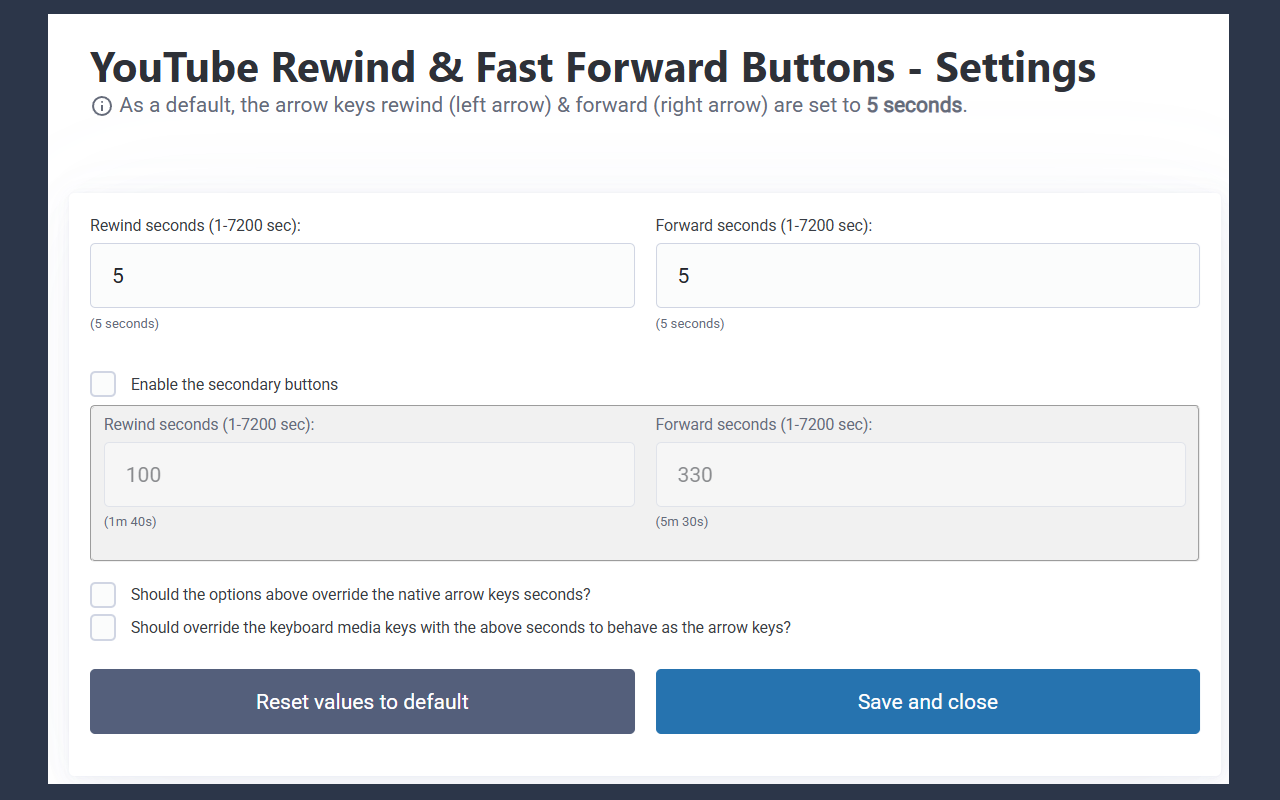
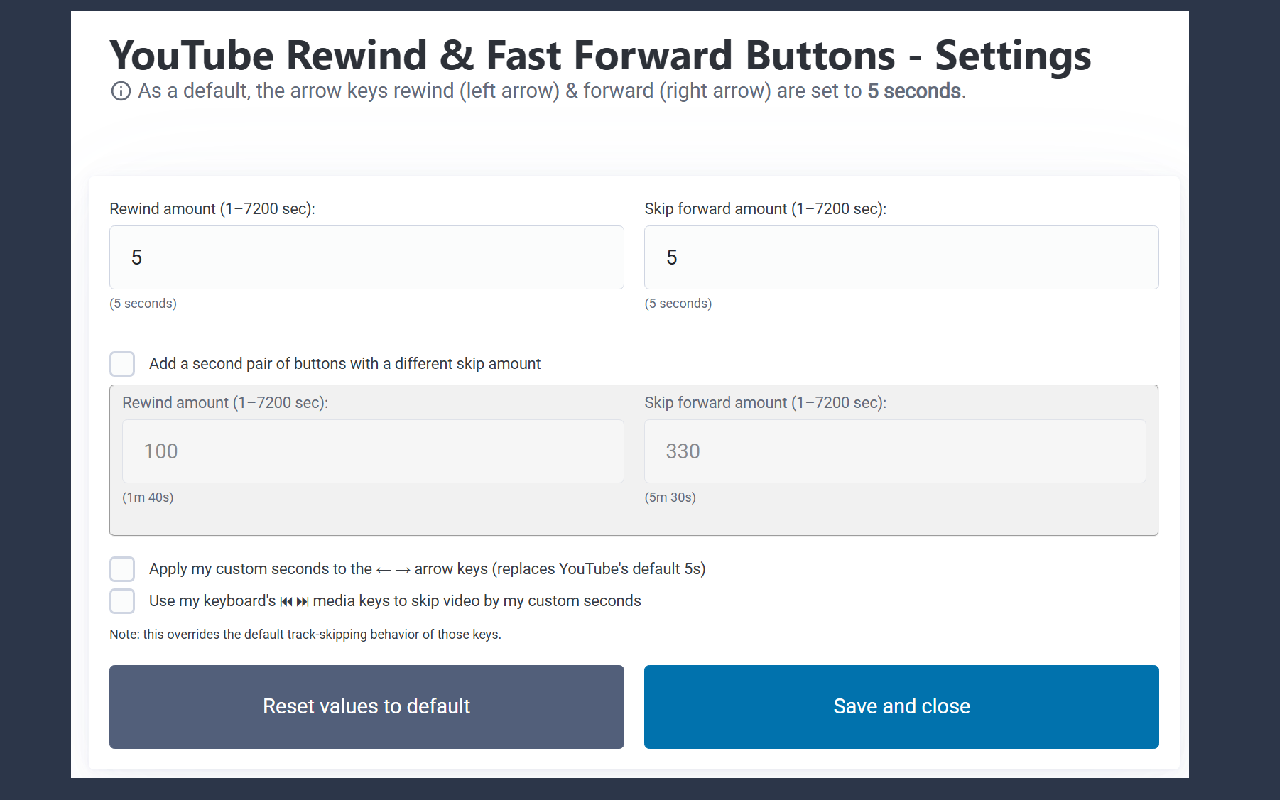
#85 Update Changelog, README, and Screenshot (#97)

diff --git a/CHANGELOG.md b/CHANGELOG.md
@@ -1,6 +1,92 @@
 # Changelog
 
-All notable changes to this project will be documented in this file. See [standard-version](https://github.com/conventional-changelog/standard-version) for commit guidelines.
+
+### [1.4.4](https://github.com/mendz/youtube-fast-rewind-forward-buttons/compare/1.4.3...1.4.4) (2026-02-19)
+
+### Features
+
+* **options:** Clearer options page labels & button transition improvements ([#94](https://github.com/mendz/youtube-fast-rewind-forward-buttons/issues/94))
+
+### Bug Fixes
+
+* **player:** Buttons sometimes don't show — SPA navigation, race conditions, and reliability improvements ([#93](https://github.com/mendz/youtube-fast-rewind-forward-buttons/issues/93))
+* **player:** Buttons are still misaligned in cinema mode and Fullscreen since the YouTube UI update ([#89](https://github.com/mendz/youtube-fast-rewind-forward-buttons/issues/89))
+
+### Chore
+
+* **content:** Content folder restructure: Logical subfolders and shared types ([#95](https://github.com/mendz/youtube-fast-rewind-forward-buttons/issues/95))
+* **dependencies:** Update dependencies ([#96](https://github.com/mendz/youtube-fast-rewind-forward-buttons/issues/96))
+* **assets:** Update screenshot assets with new versions for various resolutions
+
+### [1.4.3](https://github.com/mendz/youtube-fast-rewind-forward-buttons/compare/1.4.2...1.4.3) (2025-10-19)
+
+### Features
+
+* **player:** YouTube new UI support ([#81](https://github.com/mendz/youtube-fast-rewind-forward-buttons/issues/81))
+
+### Bug Fixes
+
+* **test:** Fix `doubleRewindButtonId` expectation in a test ([#75](https://github.com/mendz/youtube-fast-rewind-forward-buttons/issues/75))
+
+### Documentation
+
+* **docs:** Fix wording for deprecated option comments ([#78](https://github.com/mendz/youtube-fast-rewind-forward-buttons/issues/78))
+* **docs:** Add AGENTS guide for Codex ([#74](https://github.com/mendz/youtube-fast-rewind-forward-buttons/issues/74))
+
+### Chore
+
+* **dependencies:** Update dependencies ([#73](https://github.com/mendz/youtube-fast-rewind-forward-buttons/issues/73))
+
+### [1.4.2](https://github.com/mendz/youtube-fast-rewind-forward-buttons/compare/1.4.1...1.4.2) (2025-06-25)
+
+### Features
+
+* **options:** New UI using Picocss ([#68](https://github.com/mendz/youtube-fast-rewind-forward-buttons/issues/68))
+* **options:** Add secondary seconds options with configuration for rewind and forward durations ([#67](https://github.com/mendz/youtube-fast-rewind-forward-buttons/issues/67))
+* **icons:** Update SVG rendering for rewind and fast forward icons with new dimensions and styles ([#66](https://github.com/mendz/youtube-fast-rewind-forward-buttons/issues/66))
+* **options:** Add number formatting for seconds and update options UI with few options ([#65](https://github.com/mendz/youtube-fast-rewind-forward-buttons/issues/65))
+
+### Documentation
+
+* **readme:** Update readme + screenshots + icons ([#71](https://github.com/mendz/youtube-fast-rewind-forward-buttons/issues/71))
+
+### Chore
+
+* **dependencies:** Update dependencies ([#62](https://github.com/mendz/youtube-fast-rewind-forward-buttons/issues/62))
+
+### [1.4.1](https://github.com/mendz/youtube-fast-rewind-forward-buttons/compare/1.4.0...1.4.1) (2025-01-24)
+
+### Bug Fixes
+
+* **manifest:** Remove tab permission ([#59](https://github.com/mendz/youtube-fast-rewind-forward-buttons/issues/59))
+
+### Chore
+
+* **manifest:** Remove unnecessary 'tabs' permission from manifest.json ([#58](https://github.com/mendz/youtube-fast-rewind-forward-buttons/issues/58))
+
+### [1.4.0](https://github.com/mendz/youtube-fast-rewind-forward-buttons/compare/1.3.0...1.4.0) (2025-01-21)
+
+### Features
+
+* **options:** Update styles + add buy me coffee button ([#49](https://github.com/mendz/youtube-fast-rewind-forward-buttons/issues/49))
+
+### Bug Fixes
+
+* **focus:** Fix focus issue ([#53](https://github.com/mendz/youtube-fast-rewind-forward-buttons/issues/53), [#54](https://github.com/mendz/youtube-fast-rewind-forward-buttons/issues/54))
+
+### Documentation
+
+* **readme:** Update README text and screenshots & improve what's new page layout ([#55](https://github.com/mendz/youtube-fast-rewind-forward-buttons/issues/55))
+
+### Chore
+
+* **dependencies:** Update dependencies ([#51](https://github.com/mendz/youtube-fast-rewind-forward-buttons/issues/51))
+
+### [1.3.0](https://github.com/mendz/youtube-fast-rewind-forward-buttons/compare/1.2.1...1.3.0) (2023-11-19)
+
+### Chore
+
+* **release:** Bump to version 1.3.0 ([#44](https://github.com/mendz/youtube-fast-rewind-forward-buttons/issues/44))
 
 ### [1.2.1](https://github.com/mendz/youtube-fast-rewind-forward-buttons/compare/1.2.0...1.2.1) (2022-11-01)
 

diff --git a/readme.md b/readme.md
@@ -1,26 +1,24 @@
 # YouTube Rewind & Fast Forward Buttons
 
-Enhance your YouTube experience with the _Rewind & Fast Forward Chrome_ extension. This tool adds dedicated buttons for rewinding and fast forwarding the video.
+Enhance your YouTube experience with the _Rewind & Fast Forward Chrome_ extension. This tool adds dedicated buttons for rewinding and fast-forwarding videos.
 
 ### Features:
 
-1. Customizable Time Skips:
-Choose the skip duration for each button individually, with up to four customizable buttons.
+1. **Customizable Time Skips** — Choose the skip duration for each button individually, with up to four customizable buttons.
 
-2. Arrow Key Override:
-Decide whether to synchronize arrow keys with the extension buttons' seconds. (Default: No override)
+2. **Arrow Key Override** — Choose whether to synchronize the Left and Right arrow keys with your configured skip durations. (Default: No override)
 
-3. Media Key Integration:
-Optimize control by mapping the keyboard media keys to mirror the extension buttons' behavior.
+3. **Media Key Integration** — Map your keyboard's media keys (Previous/Next track) to use the same skip durations as the extension buttons.
 
-### How to Access the Options Page:
-1. If you've pinned the extension, click the extension icon and then click the "Open the option page" button.
-2. If you haven't pinned it, click the Chrome extension icon, and you will have 2 options:
-   1. Click the three dots near the "YouTube Rewind & Fast Forward Buttons" extension, and select "Options".
-   2. Click on the extension name, then click on the "Open the option page" button.
+### How to Access the Options Page
 
-(Refer to the pictures for guidance.)
+1. If you've pinned the extension, click the extension icon and then click "Open the options page".
+2. If you haven't pinned it, click the Chrome extensions icon; you'll have two options:
+   - Click the three dots next to "YouTube Rewind & Fast Forward Buttons" and select **Options**.
+   - Click the extension name, then click "Open the options page".
+
+See the screenshots below for guidance.
 
 ![Options Page & Rewind Fast Forward buttons](./screenshots/screenshot-1400x560.png "Options Page & Rewind Fast Forward buttons")
-![Ways to open the Options page](screenshots/screenshot-1280x800-2.png)
+![Ways to open the Options page](screenshots/screenshot-1280x800.png)
 ![Ways to open the Options page 2](screenshots/screenshot-1280x800-3.png)
